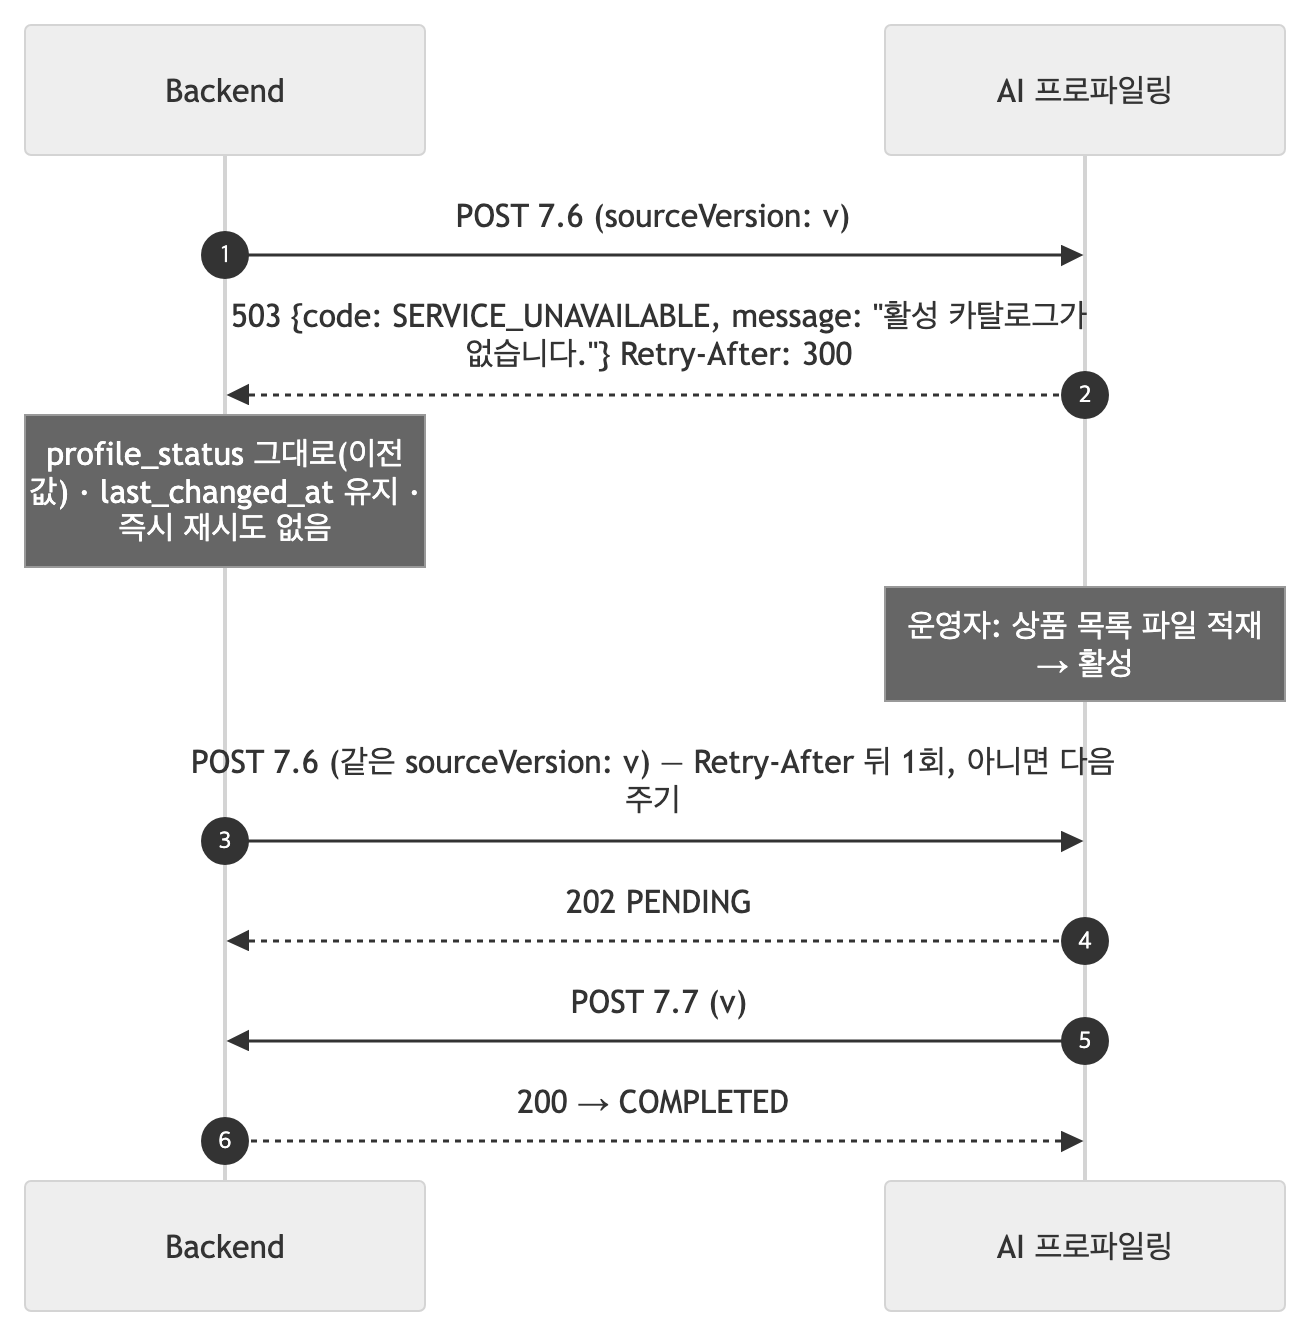
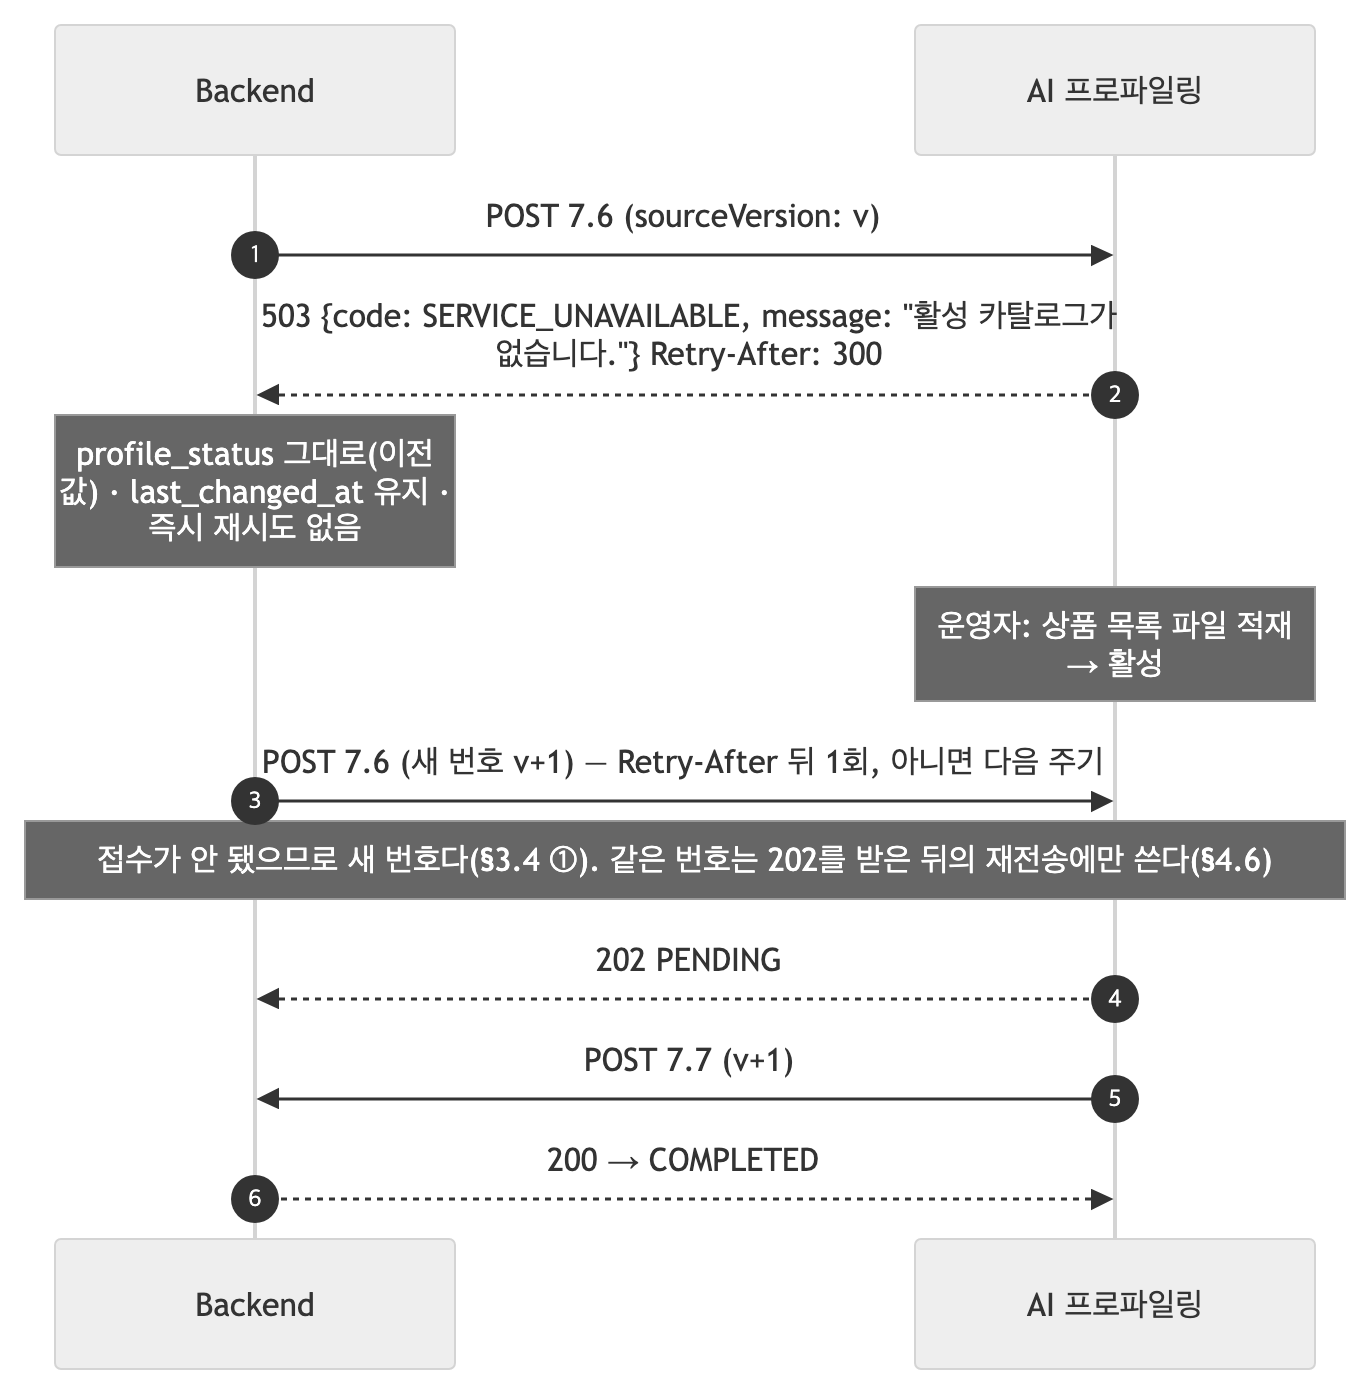
docs(profiling): "재시도"와 "재전송"을 갈라 적는다 — 503 번호 규칙 모순 해소
시나리오 시험 중 필드표 v1 안에서 같은 상황을 두 가지로 적어 둔 것을 찾았다.
성격이 다른 둘을 한 단어로 부른 것이 뿌리였다.

  재시도  7.6이 503·500·무응답 — 접수 자체가 안 됨. AI에 기록이 없다 → 새 번호
  재전송  202는 받았는데 7.7이 안 감 — 결과가 이미 있다   → 같은 번호 (09-25)

어긋나 있던 세 곳
  §3.4 ①·§3.5   "재시도도 +1"
  §4.2 그림      "같은 sourceVersion: v" — 위와 반대
  §3.5 마지막 줄 "같은 번호로 오는 일은 정상 흐름에 없다", "attempt+1로 다시 돌린다"
                 — 09-25 재전송 합의와도, 어제 넣은 중복 판정과도 어긋남

고친 것
  §3 머리에 용어 표(언제·AI가 가진 것·번호·세는 곳)를 두고 문서 전체를 그 말로 통일
  §3.2  retry_count 는 재전송만 센다(접수 실패 재시도와 다른 counter)
  §3.6  제목과 머리말에 "접수 실패 전용"임을 명시
  §4.2  그림을 새 번호(v+1)로 고치고 왜 그런지 노트 한 줄 — 다시 렌더
  §5.1  BE 확인 요청에 이 구분을 5번으로 추가

AI 코드는 바뀌지 않았다. intake.decide() 가 실행 기록 유무로 이미 갈라서
기록이 없으면 분석(S4)·있으면 재전송(S5)하며, 시나리오 시험에서 두 경로가
모두 확인됐다. 문서만의 문제였다.

142 passed, 2 skipped · ruff 통과 (코드 무변경).

diff --git a/profiling/docs/파이프라인_지도/2026-09-25.md b/profiling/docs/파이프라인_지도/2026-09-25.md
@@ -64,6 +64,7 @@ cd profiling && docker compose up -d && uv run alembic upgrade head
 | 재전송 본문 | **확인 요청** | 최초와 같아야 한다. 다르면 AI가 `input_hash`로 감지해 재분석한다 — 입력이 바뀐 것이면 새 번호로 보내야 한다 |
 | 2회 소진 후 | **확인 요청** | `FAILED` 유지 + 사용자가 다시 고칠 때만 새 7.6인지 |
 | 다중 인스턴스 | **확인 요청** | `retry_count` 증가를 조건부 원자 갱신(`… WHERE retry_count < 2`)으로 |
+| 재시도 vs 재전송 | **확인 요청** | 7.6이 접수조차 안 됐을 때(503·무응답)는 **새 번호**, 202는 받았는데 결과가 안 갈 때는 **같은 번호**. `retry_count`는 뒤쪽만 센다. 우리 필드표가 두 가지를 같은 말로 적어 두었던 것을 09-25에 정정했다 |
 | 10분 타임아웃 | 제안 | v1 처리는 밀리초 단위라 3분이면 복구가 빠르다. 모델이 붙는 v3에서 재조정 |
 | 상품·카테고리 ID | **완료 (09-25)** | BE가 xlsx 2종으로 회신 → 상품 4,231/4,231 · 카테고리 67/67 반영. `/health`의 `provisional_ids` 표시가 사라졌다 |
 | 재고 | **확인 요청** | 회신의 재고가 전건 100(MVP 기본값으로 보임)이라 전부 `available`. 실값이 생기면 다시 받아 `--metrics`로 덮는다 |
